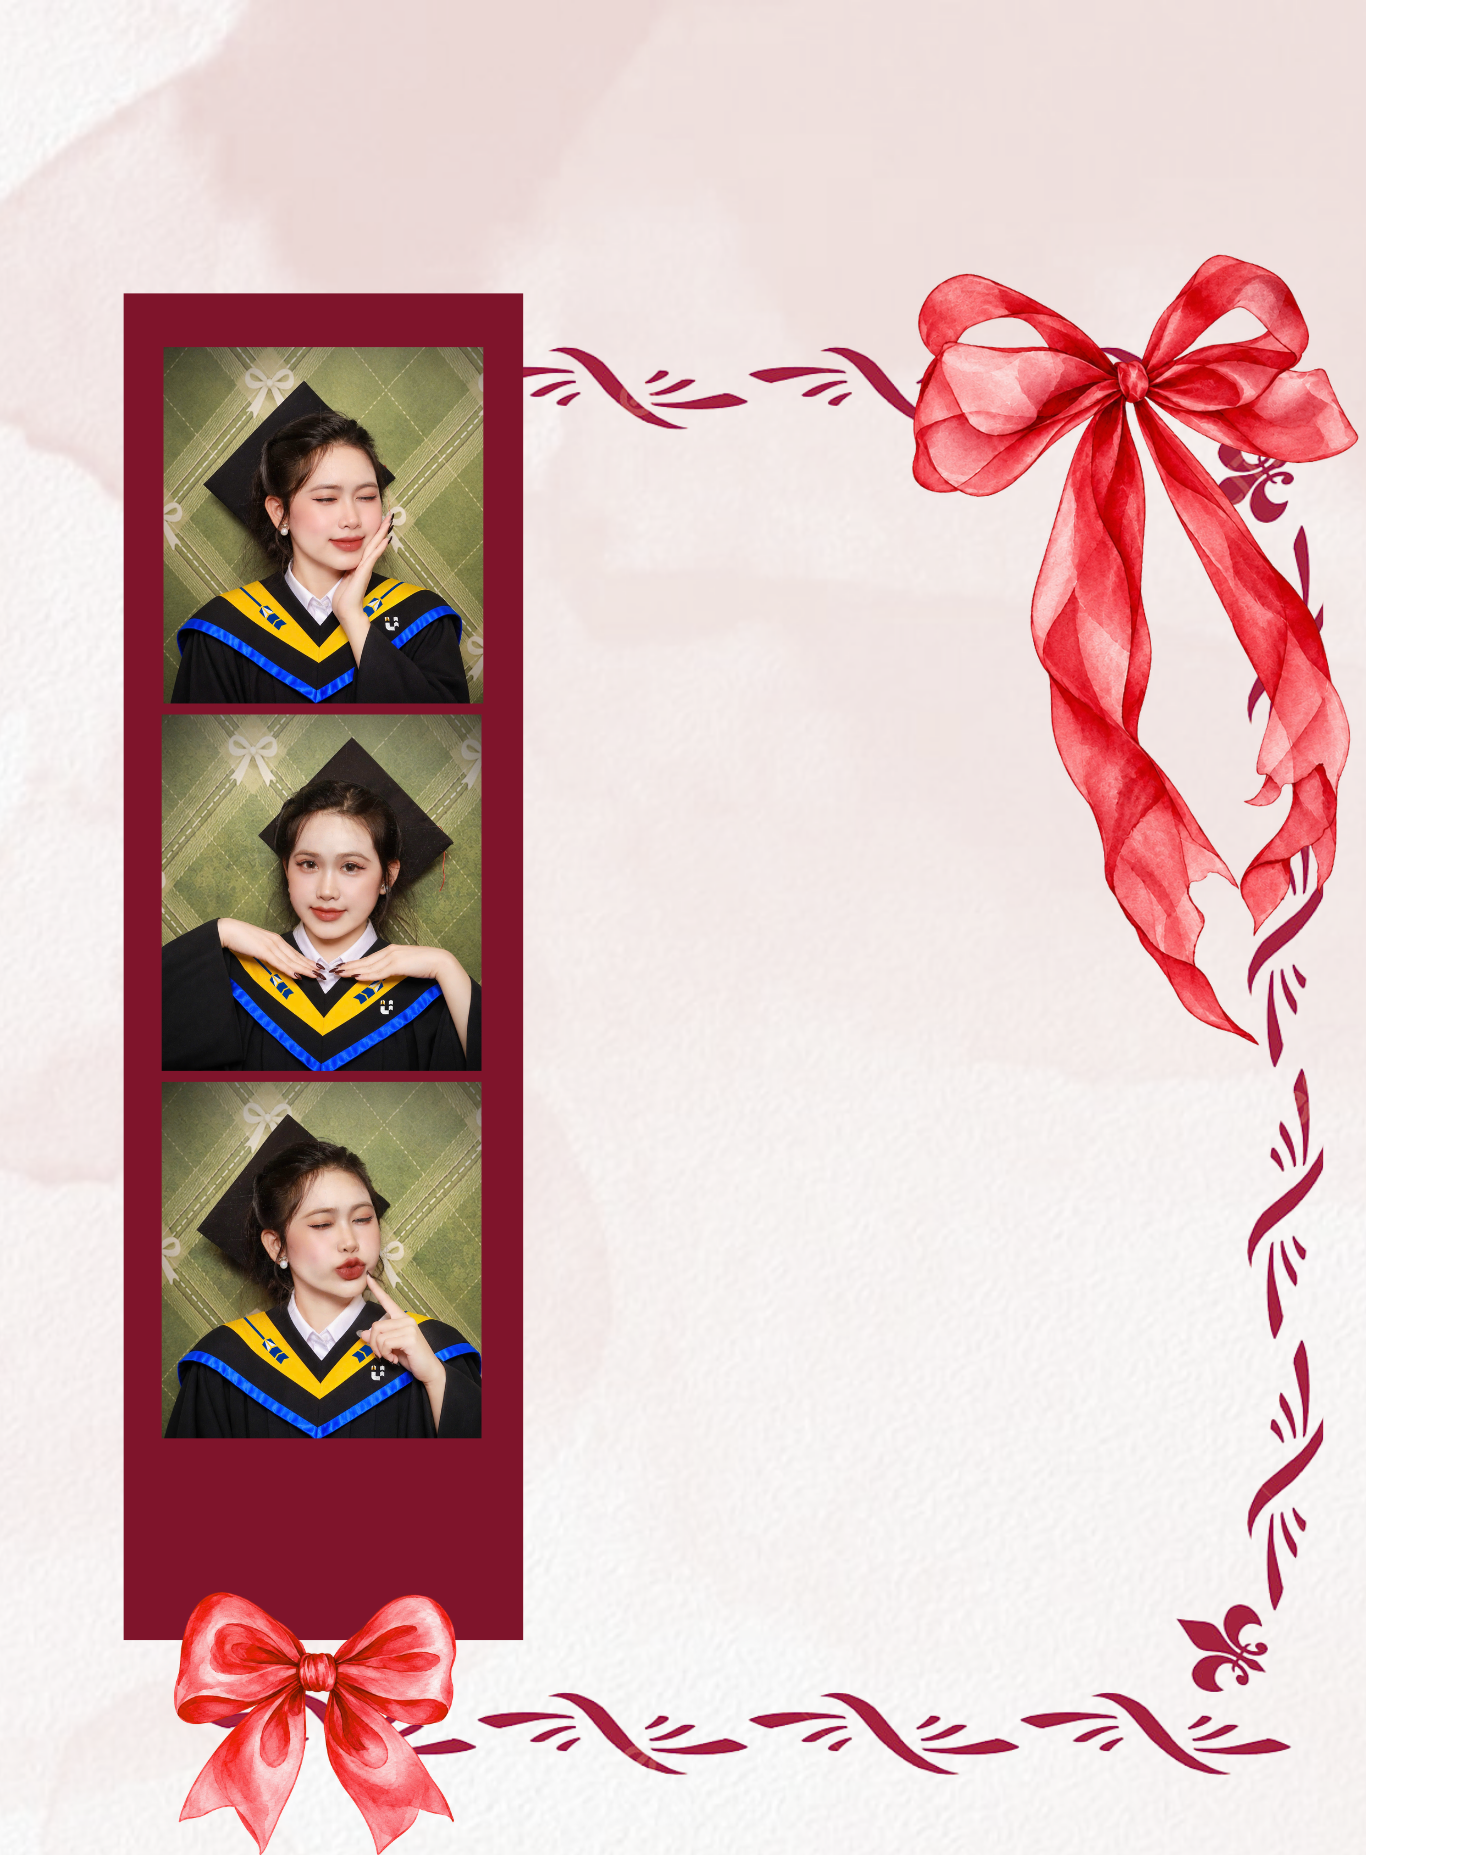
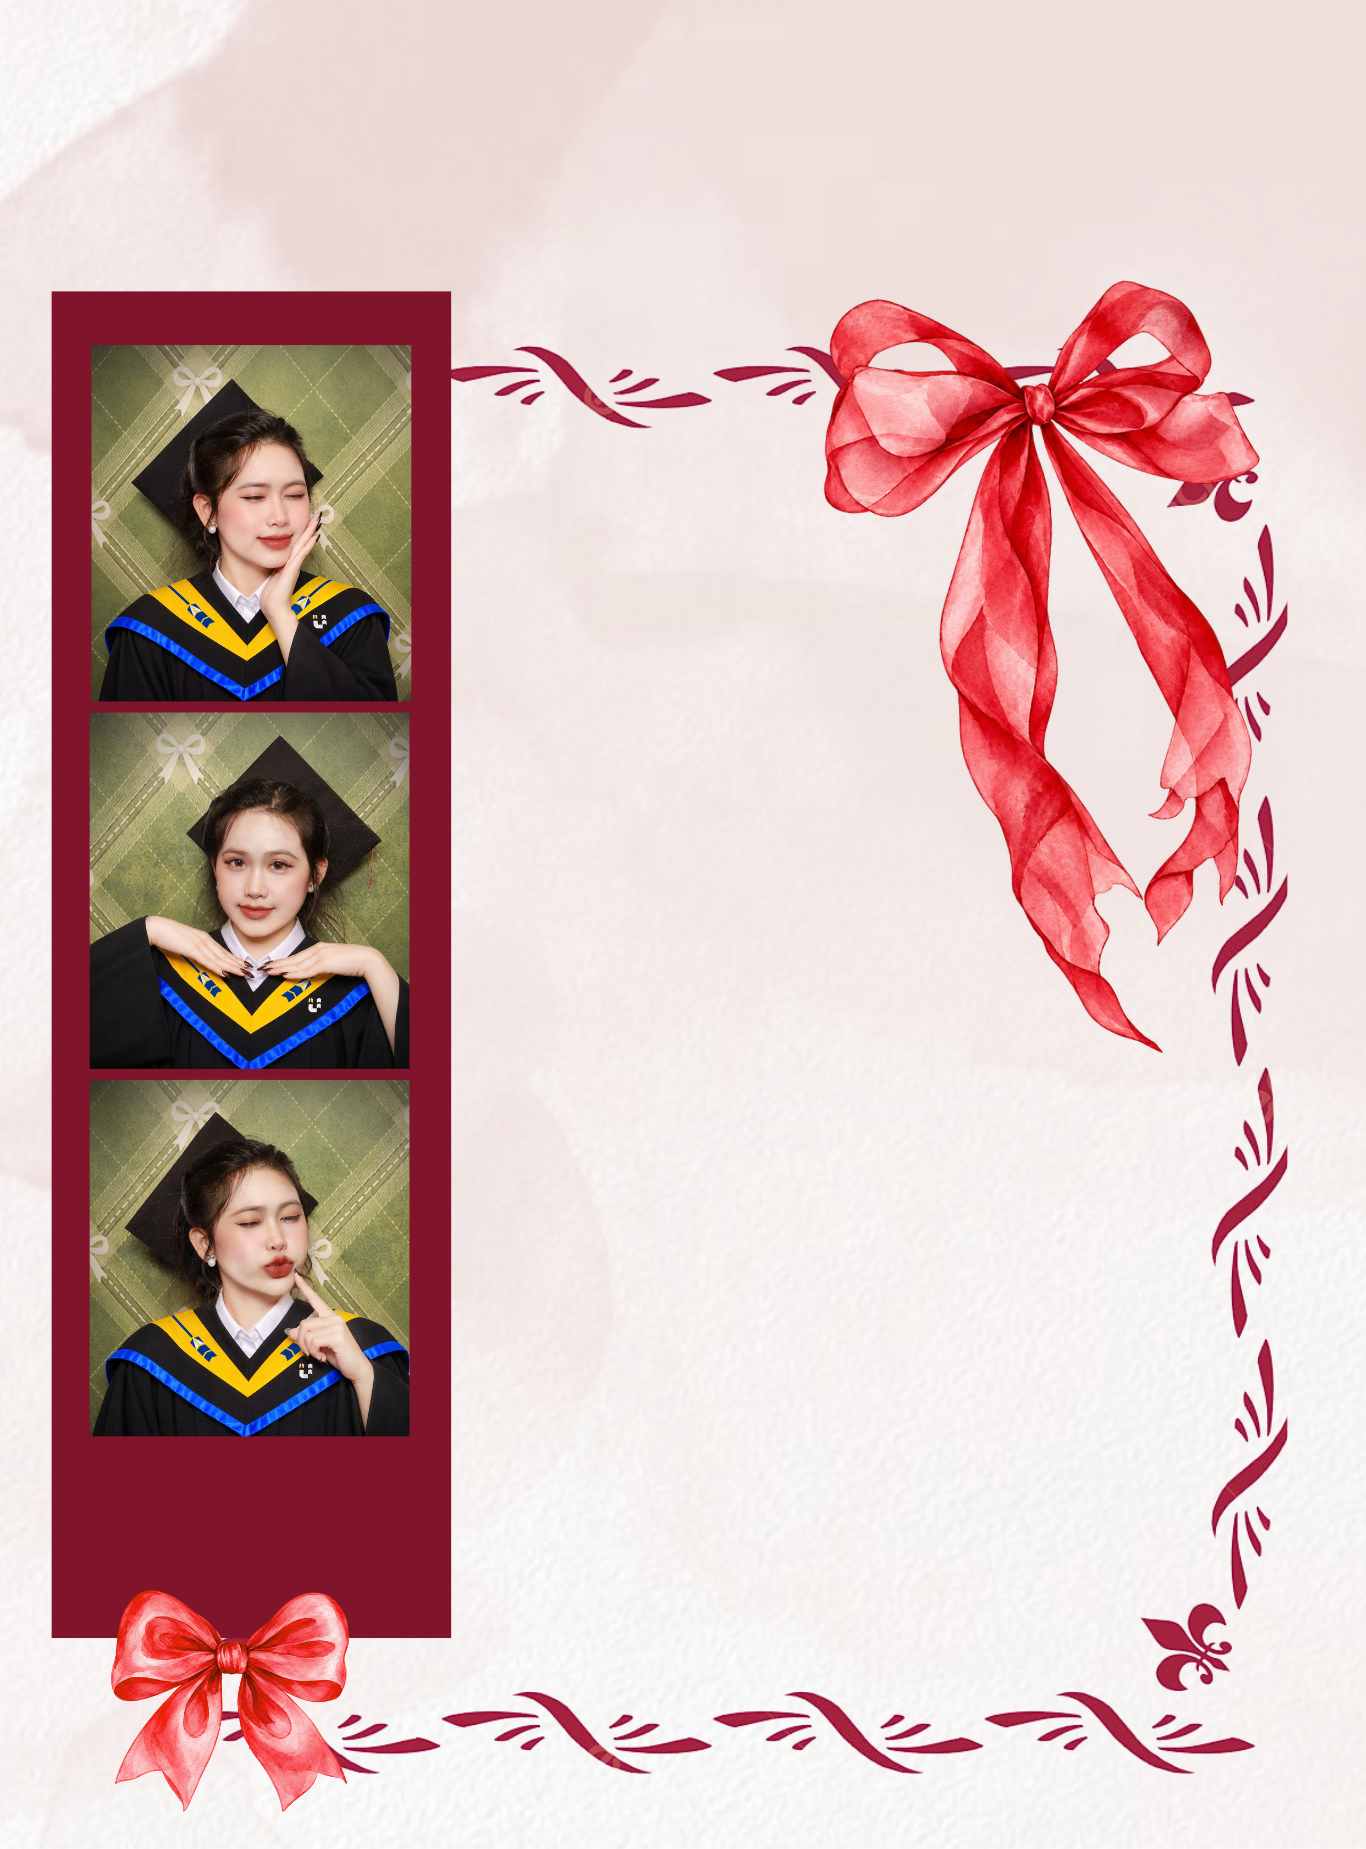
ban4

Changed region(s): [[0.0307, 0.0, 1.0, 1.0]]

diff --git a/src/Page/Page2.tsx b/src/Page/Page2.tsx
@@ -1,10 +1,9 @@
+
 import background from "../assets/backgourg1.png";
 
 function Page2() {
- 
-
   return (
-      <div
+    <div
       style={{
         position: "relative",
         width: "100%",
@@ -14,80 +13,66 @@ function Page2() {
         padding: "20px 16px",
         boxSizing: "border-box",
         overflow: "hidden",
-    
-       backgroundImage: `url(${background})`,
-    backgroundSize: "cover",
-    backgroundPosition: "center",
-    backgroundRepeat: "no-repeat",
-      
-        
+
+        backgroundImage: `url(${background})`,
+        backgroundSize: "100% 100%",
+        backgroundPosition: "center",
+        backgroundRepeat: "no-repeat",
       }}
     >
       <div
-  style={{
-    width: "195px",
-    minWidth: "400px",
-    minHeight: "600px",
-    backgroundColor: "transparent",
- 
-     
-    display: "flex",
-    flexDirection: "column",
-    gap: "10px",
-    boxSizing: "border-box",
-
-    // Bo tròn 4 góc
-    borderRadius: "18px",
-  }}
->
-      {/* Tiêu đề */}
-      <h1
         style={{
-          textAlign: "center",
-          color: "#a20d36",
-          fontFamily: "Georgia, serif",
-          fontSize: "clamp(22px, 5vw, 36px)",
-          fontWeight: "bold",
-          lineHeight: 1.1,
-          margin: "0 0 35px",
-          textShadow:
-            "2px 2px white, -2px -2px white, 2px -2px white, -2px 2px white",
-          position: "relative",
-          zIndex: 2,
-        }}
-      >
-        For the besties
-        <br />
-        OF YOUTH
-      </h1>
-
-      {/* Nội dung */}
-      <div
-        style={{
-          display: "flex",
-          gap: "15px",
           width: "100%",
-          minHeight: "420px",
-          position: "relative",
-          zIndex: 2,
+          minWidth: 0,
+          minHeight: "580px",
+          backgroundColor: "transparent",
+          display: "flex",
+          flexDirection: "column",
+          gap: "10px",
+          boxSizing: "border-box",
+          borderRadius: "18px",
         }}
       >
-     
+        {/* Tiêu đề */}
+        <h1
+          style={{
+            width: "100%",
+            textAlign: "center",
+            color: "#a20d36",
+            fontFamily: "Georgia, serif",
+            fontSize: "clamp(22px, 5vw, 36px)",
+            fontWeight: "bold",
+            lineHeight: 1.1,
+            margin: "0 0 35px",
+            textShadow:
+              "2px 2px white, -2px -2px white, 2px -2px white, -2px 2px white",
+            position: "relative",
+            zIndex: 2,
+          }}
+        >
+          For the besties
+          <br />
+          OF YOUTH
+        </h1>
 
-        {/* Phần nội dung bên phải */}
-        <div style={{ flex: 1, minWidth: 0 }} />
+        {/* Nội dung */}
+        <div
+          style={{
+            display: "flex",
+            gap: "15px",
+            width: "100%",
+            minHeight: "420px",
+            position: "relative",
+            zIndex: 2,
+            boxSizing: "border-box",
+          }}
+        >
+          {/* Phần nội dung bên phải */}
+          <div style={{ flex: 1, minWidth: 0 }} />
+        </div>
       </div>
-
-      {/* Họa tiết phía trên */}
-     
-
-      
-      </div>
-        
     </div>
-    
   );
 }
-
 
 export default Page2;

diff --git a/src/Page/Page1.tsx b/src/Page/Page1.tsx
@@ -1,3 +1,4 @@
+
 import totnghiep from "../assets/totnghiep.png";
 
 function Page1() {
@@ -7,18 +8,21 @@ function Page1() {
         width: "100%",
         maxWidth: "450px",
         margin: "0 auto",
-        padding: "0 12px",
+        padding: "0",
         boxSizing: "border-box",
+        overflow: "hidden",
       }}
     >
       <img
         src={totnghiep}
         alt="Thiệp tốt nghiệp"
         style={{
-          width: "100%",
-          height: "auto",
           display: "block",
+          width: "100%",
+          maxWidth: "100%",
+          height: "auto",
           objectFit: "contain",
+          margin: "0 auto",
         }}
       />
     </div>
